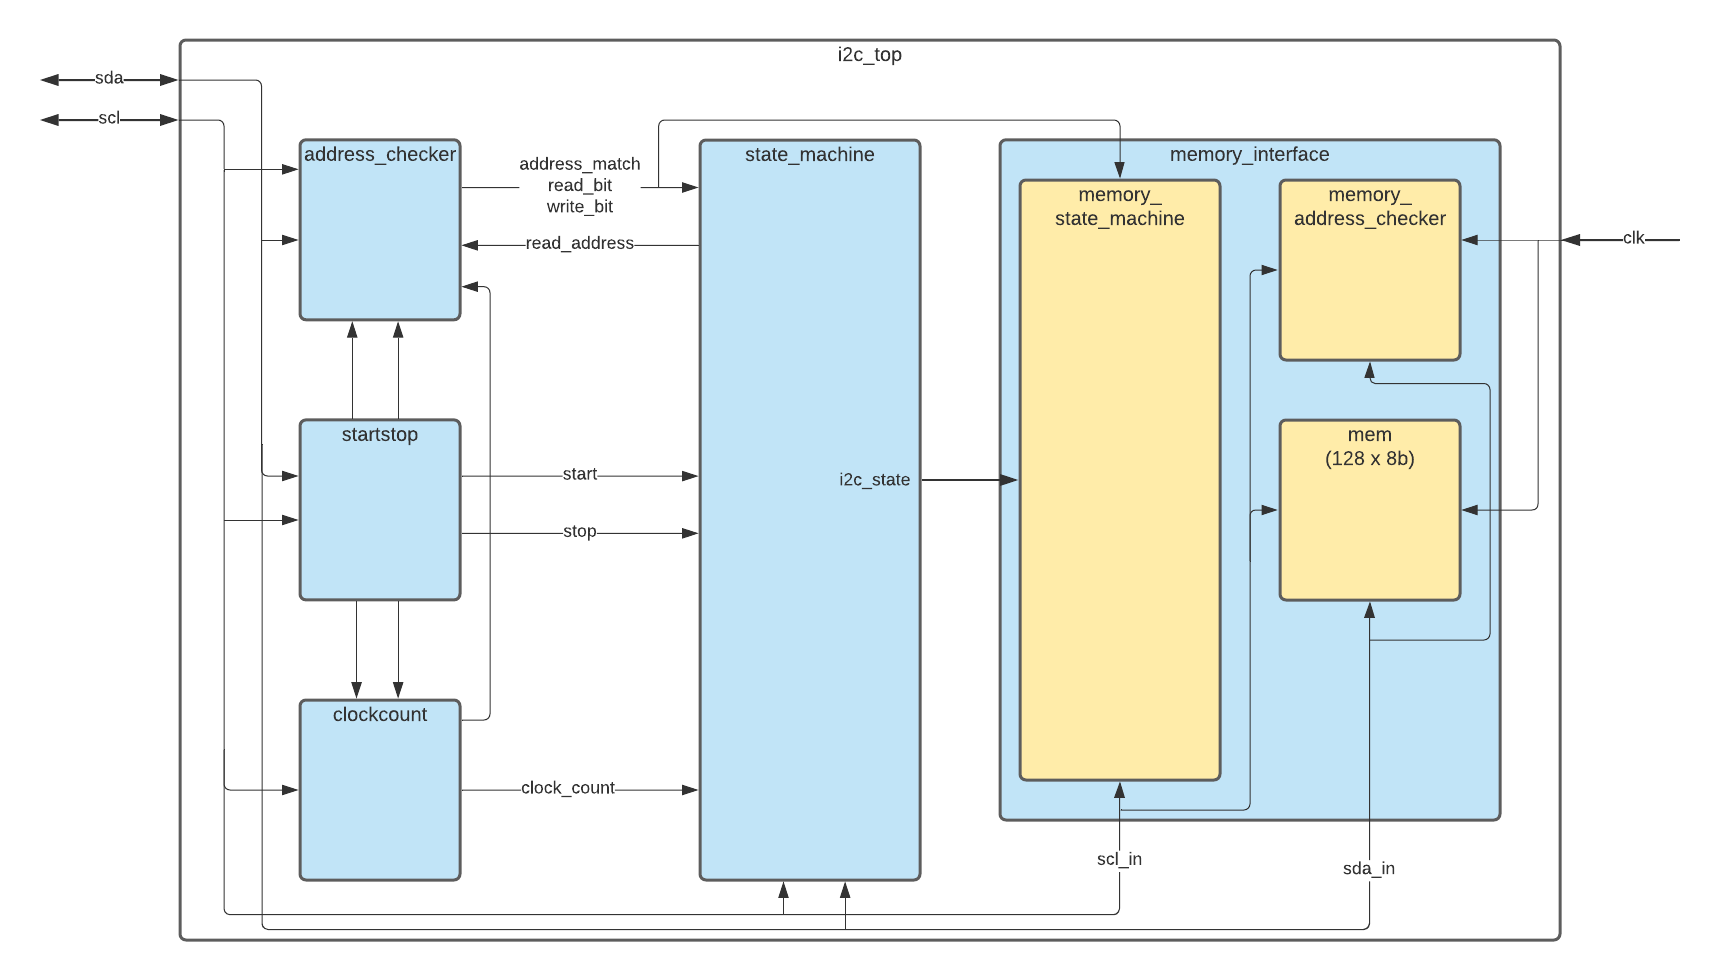
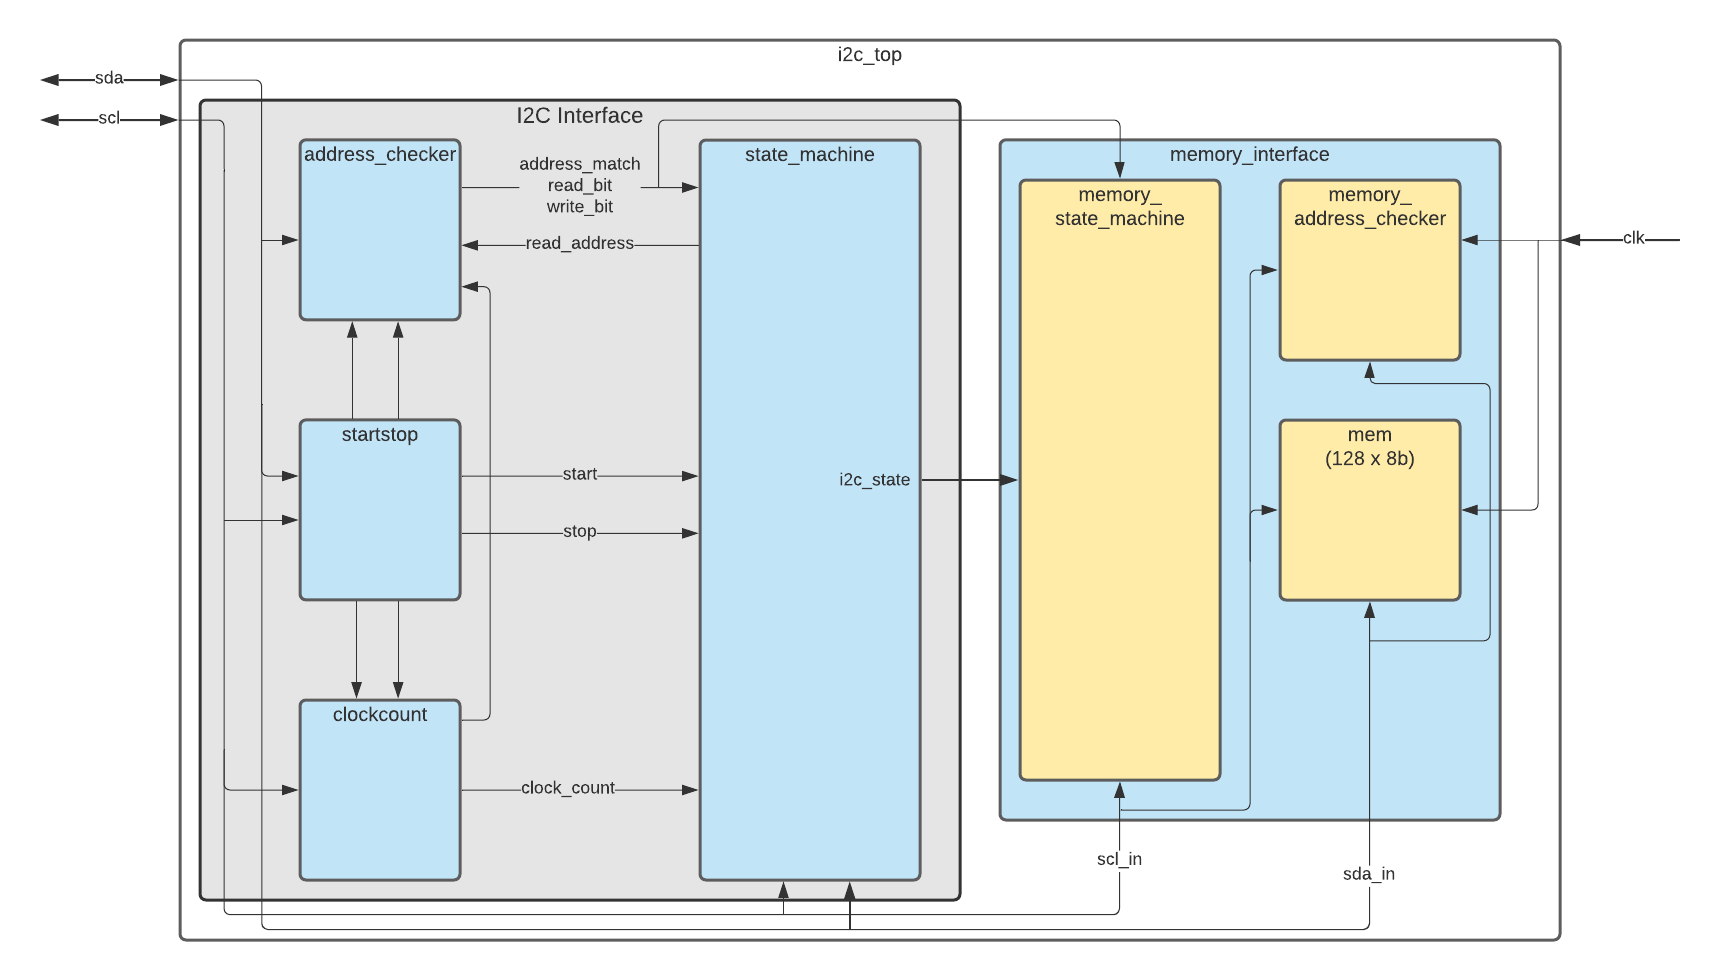
Added I2C interface to top level block module and updated readme with diagram descriptions.

Changed region(s): [[0.0924, 0.0918, 0.5855, 0.9184], [0.7703, 0.8878, 0.8012, 0.9184]]

diff --git a/README.md b/README.md
@@ -11,10 +11,12 @@
   - [Write to memory example](#Write-to-memory-example)
   - [Read from memory example](#Read-from-memory-example)
 - [Diagrams](#Diagrams)
+  - [Top Level Block Diagram](#Top-Level-Block-Diagram)
+  - [State Machine Diagrams](#State-Machine-Diagrams)
 
 ## Introduction
 
-The goal of this project was to design an I2C interface only using the [I2C standard document](https://www.nxp.com/docs/en/user-guide/UM10204.pdf). We created a memory interface to communicate over I2C with a master device. The I2C and memory interface was designed in SystemVerilog and implemented on an FPGA. This document will explain the design and specification of the subordinate device and give a couple examples of operation.
+The goal of this project was to design an I2C interface according to the [I2C-bus specification document](https://www.nxp.com/docs/en/user-guide/UM10204.pdf). We created a memory interface to communicate over I2C with a master device. The I2C and memory interface was designed in SystemVerilog and implemented on an FPGA. This document will explain the design and specification of the subordinate device and give a couple examples of operation.
 
 
 ## Objectives
@@ -57,7 +59,7 @@ During a read operation the master initiates the transmission by sending a start
   <img width="800" src="Documentation/I2C_Read_from_Memory.png">
 </p>
 <p align="center">
-  Read figure
+  Read operation
 </p>
 <p>&nbsp;</p>
 
@@ -151,6 +153,12 @@ void setup() {
 
 ## Diagrams
 
+### Top Level Block Diagram
+
+The I2C top level module is divided into the I2C interface and the memory interface. The system has been designed so that the memory interface could be replaced by any other suitably designed I2C subordinate device. The I2C interface handles all functionality concerning communication with a master device. 
+
+Note: I2C Interface is in the block diagram for clarification purposes only. It is not an RTL module.
+
 <p align="center">
   <b> Top Level Block Diagram </b>
 </p>
@@ -163,9 +171,37 @@ void setup() {
 
 <!-- [Block Diagram](Documentation/I2C_Top_Block_Diagram.png)-->
 
+### State Machine Diagrams
 
+The state machines were designed for low power by allowing for a minimal number of bits in the state vector to change for any state transition. At any instant, only one of the 7 state bits will be set to 1. Every time a state transition occurs, 2 bits of the state vector will change, and the next_state case statement only needs to check for 1 bit. The figure below shows the state vector for the I2C state machine. The same convention is used for the RAM state machine.
 
+```SV
+// State bits for subordinate state machine
+typedef enum {
 
+  I2C_WAIT_bit               = 0,
+  I2C_MASTER_WR_DEV_ADDR_bit = 1,
+  I2C_SUB_SEND_ACK_1_bit     = 2,
+  I2C_MASTER_WR_DATA_bit     = 3,
+  I2C_SUB_SEND_ACK_2_bit     = 4,
+  I2C_MASTER_RD_DATA_bit     = 5,
+  I2C_MASTER_SEND_ACK_bit    = 6
+
+} sub_state_bit;
+
+// Shift a 1 to the bit that represents each state
+typedef enum logic [6:0] {
+
+  I2C_WAIT               = 7'b1<<I2C_WAIT_bit,
+  I2C_MASTER_WR_DEV_ADDR = 7'b1<<I2C_MASTER_WR_DEV_ADDR_bit,
+  I2C_SUB_SEND_ACK_1     = 7'b1<<I2C_SUB_SEND_ACK_1_bit,
+  I2C_MASTER_WR_DATA     = 7'b1<<I2C_MASTER_WR_DATA_bit,
+  I2C_SUB_SEND_ACK_2     = 7'b1<<I2C_SUB_SEND_ACK_2_bit,
+  I2C_MASTER_RD_DATA     = 7'b1<<I2C_MASTER_RD_DATA_bit,
+  I2C_MASTER_SEND_ACK    = 7'b1<<I2C_MASTER_SEND_ACK_bit
+
+} sub_state_t;
+```
 <p align="center">
   <b> I2C State Machine Diagram </b>
 </p>
